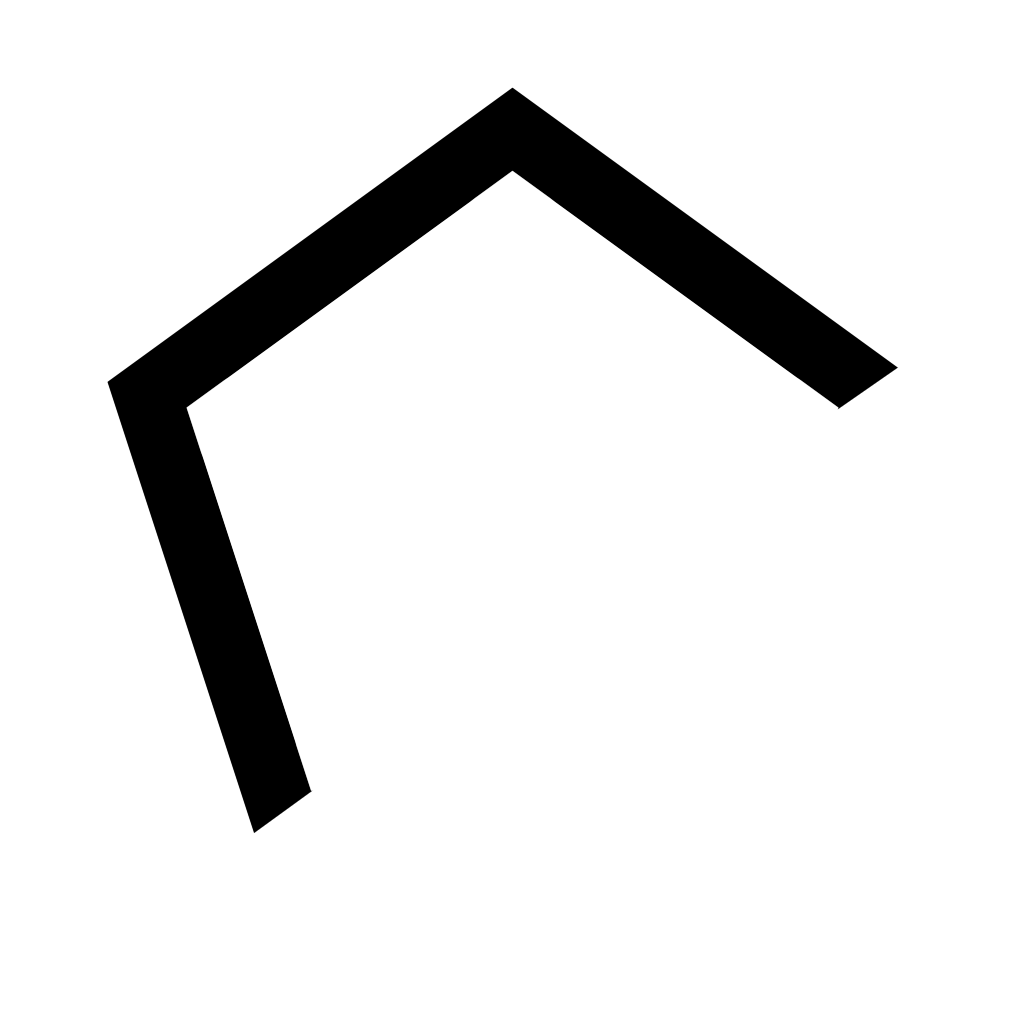
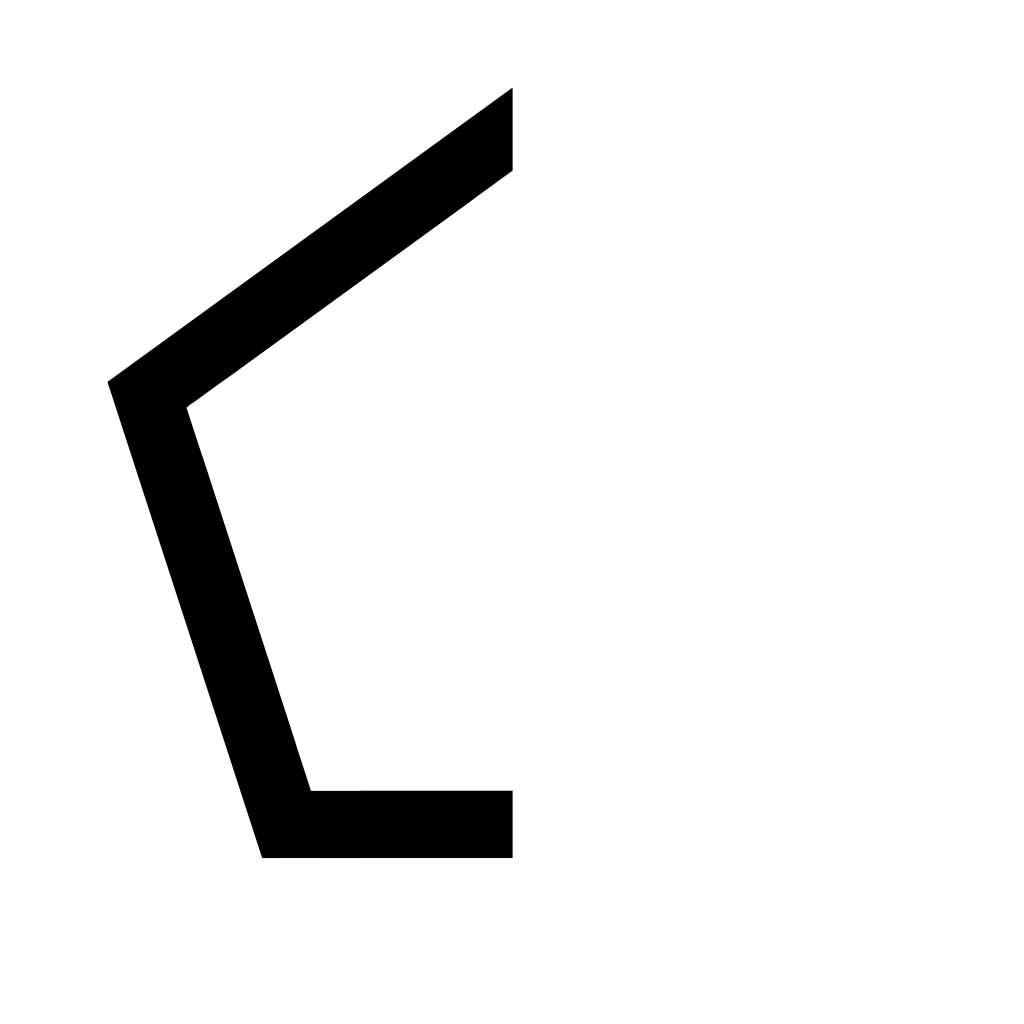
플레이어 도형 오브젝트 추가

Changed region(s): [[0.5, 0.0938, 0.875, 0.4062], [0.25, 0.75, 0.5, 0.8438]]

diff --git a/mata_SDK/LoadingScreen.h b/mata_SDK/LoadingScreen.h
@@ -92,6 +92,27 @@ public:
 		imageUtil.PreLoad(SysRes.FMOD_LOGO, SysRes.FMOD_LOGO_DIRECTORY, IMAGE_TYPE_LINEAR);
 		imageUtil.PreLoad(SysRes.COLOR_TEXTURE, SysRes.COLOR_TEXTURE_DIRECTORY);
 
+		// game resoueces
+		imageUtil.PreLoad(Sprite.Triangle[0], "Assets//Image//Shapes//Triangle//obstacle_triangle_1.png");
+		imageUtil.PreLoad(Sprite.Triangle[1], "Assets//Image//Shapes//Triangle//obstacle_triangle_2.png");
+		imageUtil.PreLoad(Sprite.Triangle[2], "Assets//Image//Shapes//Triangle//obstacle_triangle_3.png");
+		imageUtil.PreLoad(Sprite.Triangle[3], "Assets//Image//Shapes//Triangle//obstacle_triangle_4.png");
+		imageUtil.PreLoad(Sprite.Triangle[4], "Assets//Image//Shapes//Triangle//obstacle_triangle_5.png");
+
+		imageUtil.PreLoad(Sprite.Square[0], "Assets//Image//Shapes//Square//obstacle_square_1.png");
+		imageUtil.PreLoad(Sprite.Square[1], "Assets//Image//Shapes//Square//obstacle_square_2.png");
+		imageUtil.PreLoad(Sprite.Square[2], "Assets//Image//Shapes//Square//obstacle_square_3.png");
+		imageUtil.PreLoad(Sprite.Square[3], "Assets//Image//Shapes//Square//obstacle_square_4.png");
+		imageUtil.PreLoad(Sprite.Square[4], "Assets//Image//Shapes//Square//obstacle_square_5.png");
+		imageUtil.PreLoad(Sprite.Square[5], "Assets//Image//Shapes//Square//obstacle_square_6.png");
+
+		imageUtil.PreLoad(Sprite.Pentagon[0], "Assets//Image//Shapes//Pentagon//obstacle_pentagon_1.png");
+		imageUtil.PreLoad(Sprite.Pentagon[1], "Assets//Image//Shapes//Pentagon//obstacle_pentagon_2.png");
+		imageUtil.PreLoad(Sprite.Pentagon[2], "Assets//Image//Shapes//Pentagon//obstacle_pentagon_3.png");
+		imageUtil.PreLoad(Sprite.Pentagon[3], "Assets//Image//Shapes//Pentagon//obstacle_pentagon_4.png");
+		imageUtil.PreLoad(Sprite.Pentagon[4], "Assets//Image//Shapes//Pentagon//obstacle_pentagon_5.png");
+		imageUtil.PreLoad(Sprite.Pentagon[5], "Assets//Image//Shapes//Pentagon//obstacle_pentagon_6.png");
+
 		SysRes.GLU_CIRCLE = gluNewQuadric();
 		SysRes.GLU_LINE_CIRCLE = gluNewQuadric();
 		gluQuadricDrawStyle(SysRes.GLU_CIRCLE, GLU_FILL);

diff --git a/mata_SDK/PlayMode.h b/mata_SDK/PlayMode.h
@@ -3,19 +3,21 @@
 #include "MouseUtil.h"
 #include "CameraController.h"
 
-class GameMode1 {
+#include "PlayerShape.h"
+
+class Play_Mode {
 public:
 	// define mode name and mode type here
-	std::string ModeName { "GameMode1" };
+	std::string ModeName { "PlayMode" };
 	int         ModeType { MODE_TYPE_DEFAULT };
 
 	// when you activate this option, you can access the camera controller.
-	bool        UseCameraController{ false };
+	bool        UseCameraController{ true };
 
 	// type object tag to input device event
 	std::vector<std::string> InputObjectTag
 	{
-
+		"player_shape"
 	};
 
 	// this is a container that stores object pointers for accessing object controllers.
@@ -25,10 +27,7 @@ public:
 	/////////////////////////////////////////////////////////////
 
 	static void Start() {
-		System.SetBackColor(0.3, 0.3, 0.3);
-
-		// Add task here
-
+		scene.AddObject(new PlayerShape, "player_shape", LAYER1);
 		SetUp();
 	}
 
@@ -52,9 +51,9 @@ public:
 	/////////////////////////////////////////////////////////////
 	// Fold here
 #pragma region FoldRegion 
-	static GameMode1* M_Inst;
+	static Play_Mode* M_Inst;
 
-	GameMode1() {
+	Play_Mode() {
 		M_Inst = this;
 	}
 
@@ -166,4 +165,4 @@ public:
 	}
 #pragma endregion
 };
-extern GameMode1 Mode1;
+extern Play_Mode PlayMode;

diff --git a/mata_SDK/PlayerShape.cpp b/mata_SDK/PlayerShape.cpp
@@ -1,0 +1,44 @@
+#include "PlayerShape.h"
+
+PlayerShape::PlayerShape() {
+	SetColor(1.0, 1.0, 1.0);
+}
+
+void PlayerShape::InputKey(KeyEvent& Event) {
+	if (Event.Type == SPECIAL_KEY_DOWN) {
+		switch (Event.SpecialKey) {
+		case SK_ARROW_RIGHT:
+			CurrentShape += 1;
+			EX.ClampValue(CurrentShape, 2, CLAMP_GREATER);
+			break;
+
+		case SK_ARROW_LEFT:
+			CurrentShape -= 1;
+			EX.ClampValue(CurrentShape, 0, CLAMP_LESS);
+			break;
+		}
+	}
+}
+
+void PlayerShape::UpdateFunc(float FrameTime) {
+
+}
+
+void PlayerShape::RenderFunc() {
+	BeginRender();
+	transform.Scale(ScaleMatrix, ShapeSize, ShapeSize);
+
+	switch (CurrentShape) {
+	case Triangle:
+		RenderSprite(Sprite.Triangle[0]);
+		break;
+
+	case Square:
+		RenderSprite(Sprite.Square[0]);
+		break;
+
+	case Pentagon:
+		RenderSprite(Sprite.Pentagon[0]);
+		break;
+	}
+}

diff --git a/mata_SDK/GameResource.h b/mata_SDK/GameResource.h
@@ -4,7 +4,9 @@
 // Declare the sprite resource or directory here. 
 class SpriteResource {
 public:
-
+	Image Triangle[5]{};
+	Image Square[6]{};
+	Image Pentagon[6]{};
 };
 
 // Declare the sound resource or directory here. 
@@ -29,11 +31,12 @@ public:
 
 // Load your custom font.
 // USE_CUSTON_FONT must be enabled.
-//#define USE_CUSTOM_FONT
+#define USE_CUSTOM_FONT
 #ifdef USE_CUSTOM_FONT
 constexpr const char* FONT_PATH[]
 {
-
+	"Assets//Font//Exo-Light.otf",
+	"Assets//Font//SCDream3.otf",
 };
 #endif
 

diff --git a/mata_SDK/[0]_Modes.cpp b/mata_SDK/[0]_Modes.cpp
@@ -1,9 +1,9 @@
-#include "GameMode1.h"
+#include "PlayMode.h"
 
 //////////////////////////////////// Start Mode Option
 // Specifies the mode to run first when the program starts.
 //You must include the mode header file, and declare the mode class and mode's instance.
-GameMode1 Mode1;
-GameMode1* GameMode1::M_Inst;
+Play_Mode PlayMode;
+Play_Mode* Play_Mode::M_Inst;
 
-START_MODE_PTR START_MODE = Mode1.Start;
+START_MODE_PTR START_MODE = PlayMode.Start;

diff --git a/mata_SDK/PlayerShape.h b/mata_SDK/PlayerShape.h
@@ -1,0 +1,21 @@
+#pragma once
+#include "GameObject.h"
+
+enum shapeenum {
+	Triangle,
+	Square,
+	Pentagon
+};
+
+class PlayerShape : public GameObject {
+private:
+	int CurrentShape{}; // 0: triangle, 1: sauqre, 2: pentagon
+	GLfloat ShapeRotation{};
+	GLfloat ShapeSize{ 1.2 };
+
+public:
+	PlayerShape();
+	void InputKey(KeyEvent& Event);
+	void UpdateFunc(float FrameTime);
+	void RenderFunc();
+};
